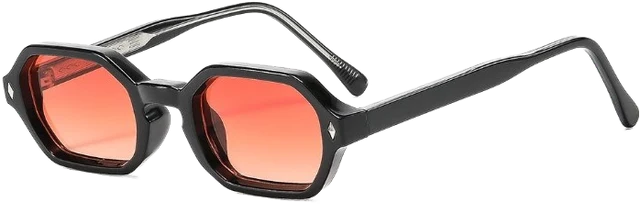
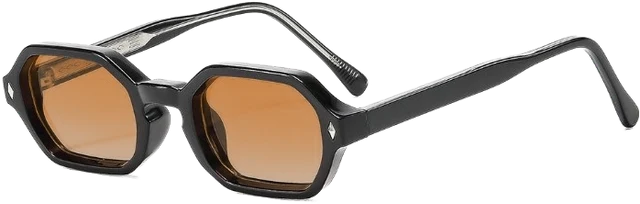
Make Cognac an actual cognac lens
The colourway was renamed from Ember but kept the red glass, because red is
what the master photograph was shot with. Cognac is now re-tinted from that
master like the other two: hue 28 at 0.85 saturation, deepened to 0.8, which
lands on amber brown and keeps clear separation from Champagne's pale gold.

Swatch and try-on hexes follow the render, and the English, French and German
lens copy no longer calls it red.

The red in the master is the factory's stock sample glass, not the product.

Changed region(s): [[0.3125, 0.3529, 0.5312, 0.9412], [0.0312, 0.2647, 0.2188, 0.7941]]

diff --git a/src/lib/catalog/copy/fr.ts b/src/lib/catalog/copy/fr.ts
@@ -46,9 +46,9 @@ const fr: CatalogCopy = {
       colorways: {
         cognac: {
           lensDescription:
-            "Un dégradé rouge chaud qui brûle au sourcil et s'éclaircit vers la pommette.",
+            "Un brun ambré chaud, le plus dense au sourcil, qui s'éclaircit vers la pommette.",
           imageAlt:
-            "The Marina en acétate Onyx avec un verre dégradé rouge Cognac, vue de trois quarts en studio",
+            "The Marina en acétate Onyx avec un verre dégradé Cognac, vue de trois quarts en studio",
         },
         champagne: {
           lensDescription:

diff --git a/src/lib/catalog/copy/de.ts b/src/lib/catalog/copy/de.ts
@@ -46,9 +46,9 @@ const de: CatalogCopy = {
       colorways: {
         cognac: {
           lensDescription:
-            "Ein warmer roter Verlauf, der an der Braue brennt und zum Wangenknochen hin aufklart.",
+            "Ein warmes Bernsteinbraun, an der Braue am dichtesten, zum Wangenknochen hin aufklarend.",
           imageAlt:
-            "The Marina in Onyx-Acetat mit rotem Cognac-Verlaufsglas, Dreiviertelansicht im Studio",
+            "The Marina in Onyx-Acetat mit Cognac-Verlaufsglas, Dreiviertelansicht im Studio",
         },
         champagne: {
           lensDescription:

diff --git a/src/lib/catalog/frames.ts b/src/lib/catalog/frames.ts
@@ -30,10 +30,10 @@ const COLORWAY_SEEDS: ColorwaySeed[] = [
   {
     id: "cognac",
     name: "Cognac",
-    lensHex: "#E8402F",
-    lensHexLower: "#F7A682",
+    lensHex: "#A9602A",
+    lensHexLower: "#DCA97A",
     lensDescription:
-      "A warm red gradient that burns at the brow and clears toward the cheekbone.",
+      "A warm amber brown, deepest at the brow and clearing toward the cheekbone.",
     vlt: 32,
     filterCategory: 2,
     gradient: true,
